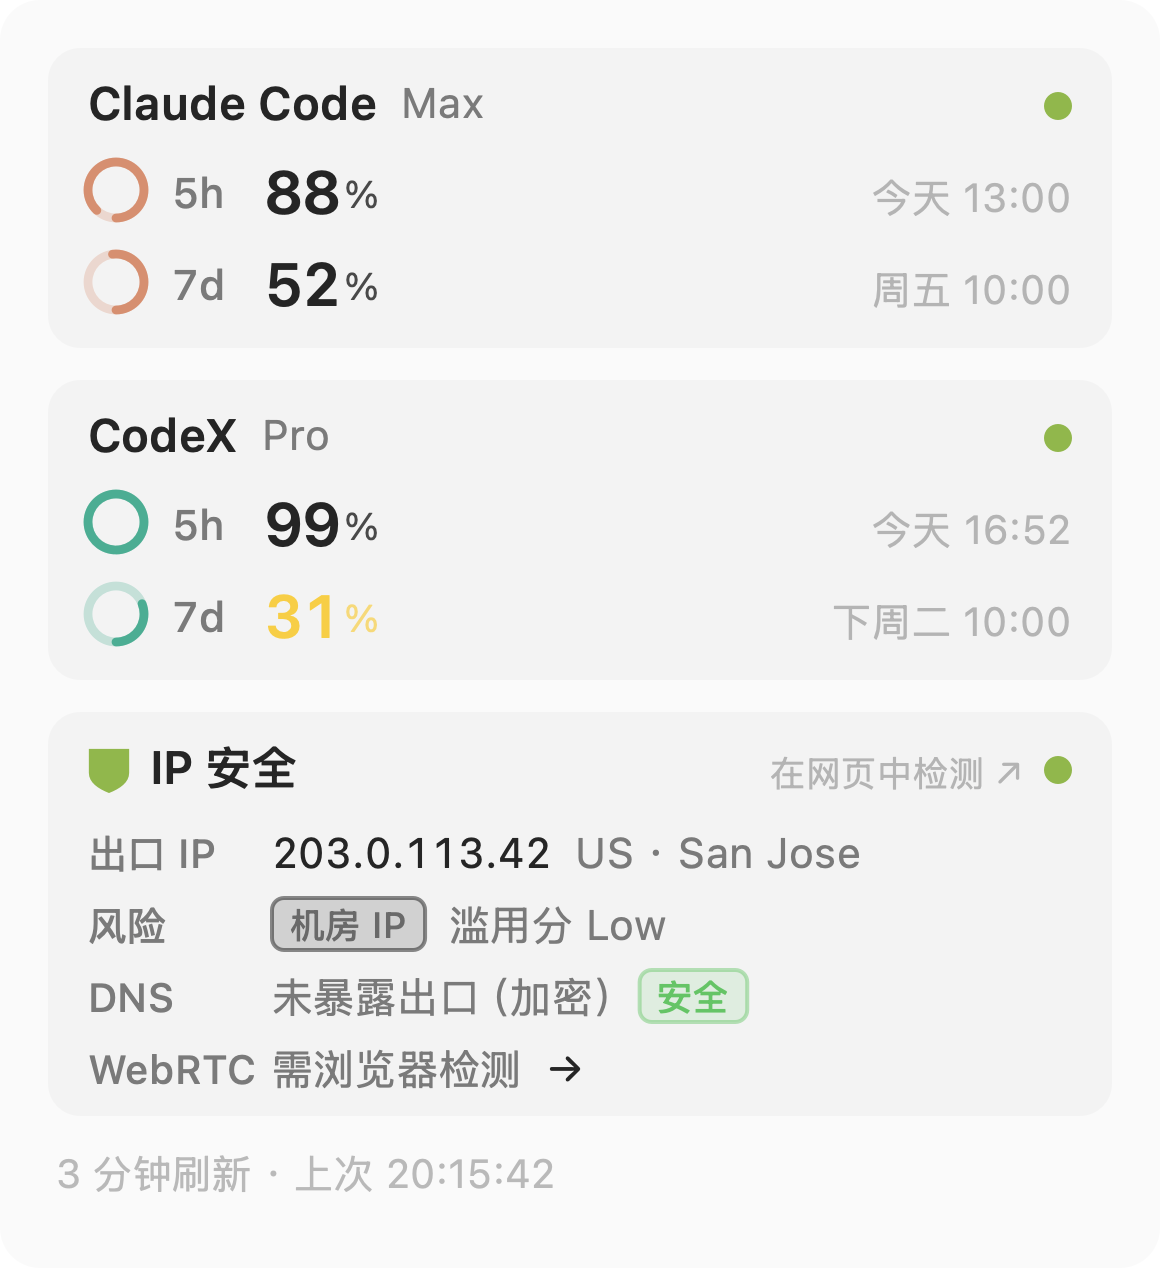
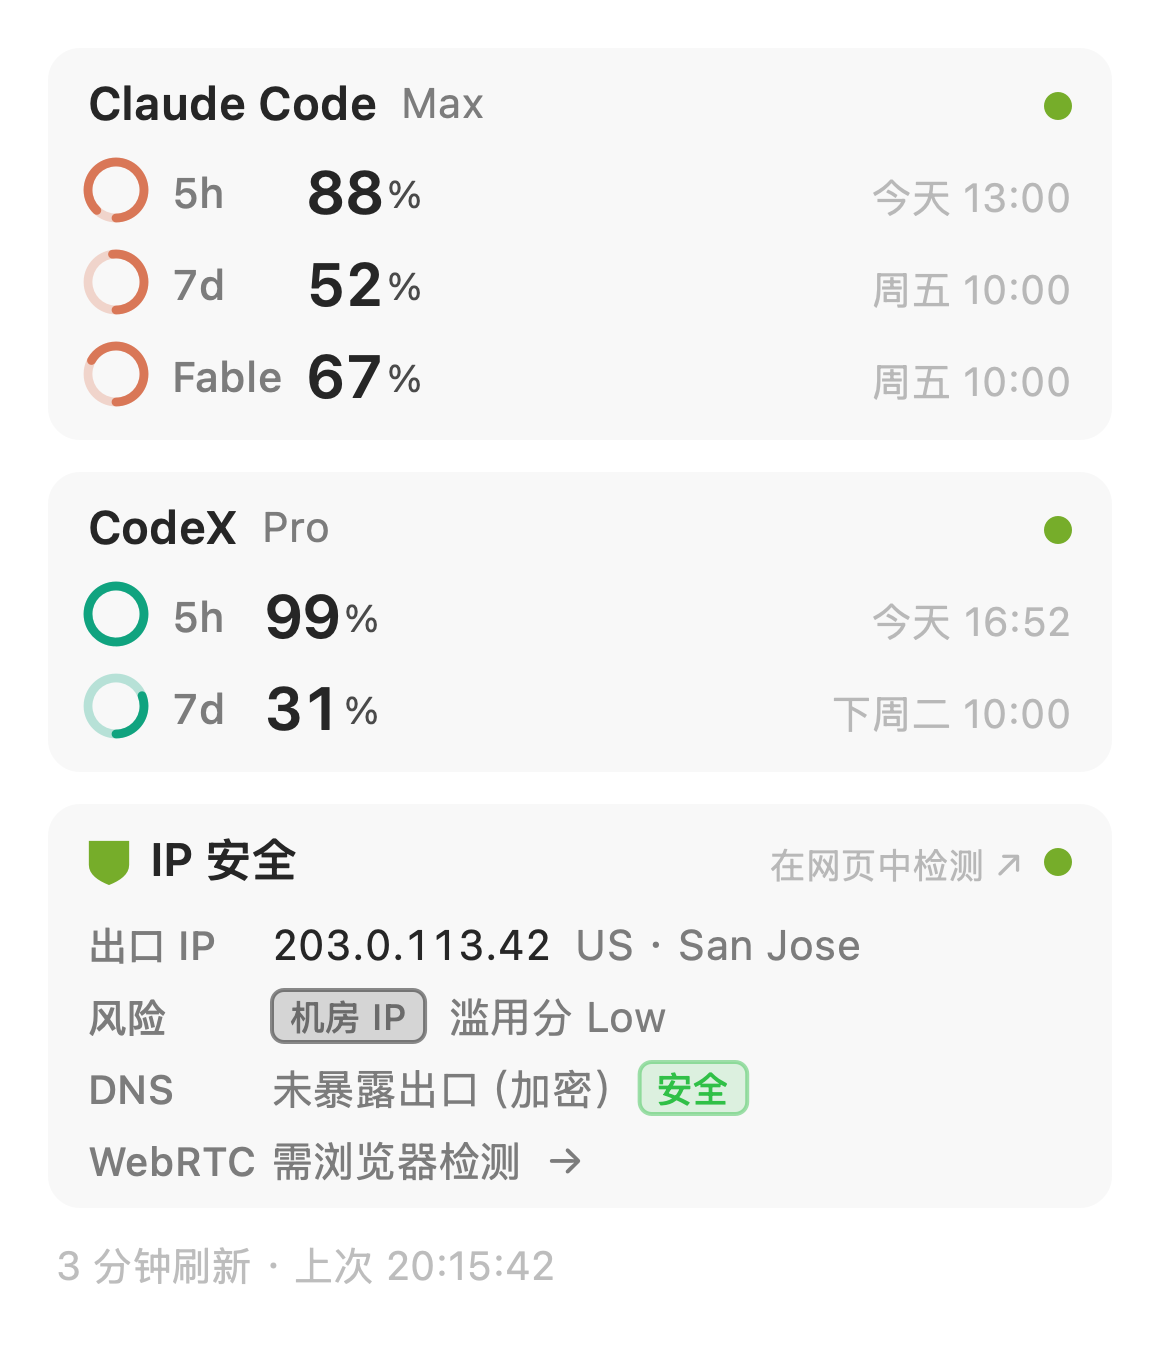
docs: README 补 Fable 周期额度行说明，重拍浅/深色面板截图
fork.9 发了功能但 README 没跟上——面板截图还是两行的旧图，正文也没提。
截图离屏重渲染（浅/深色各一张，4x），数值沿用旧图 + 新增 Fable 67% 行；
出口 IP 继续用 RFC 5737 示例地址 203.0.113.42，真实 IP 不进公开仓库。

diff --git a/README.md b/README.md
@@ -18,6 +18,8 @@
 
 左键点击弹出卡片式面板：环形进度 + 大号百分比 + 重置时间 + 服务健康状态点（数据来自官方 status page）。设置项都在面板下方的菜单里。
 
+Claude 卡片在 5h / 7d 之外还有第三行：**按模型限定的周期额度**（上图的 Fable 行）——这一档在 claude.ai 用量页看得到，但一般的菜单栏工具不显示。标签用服务端下发的模型名，旗舰换代时自动跟随，无需升级 App。目前 macOS 面板已支持，Windows flyout 下个版本跟进。
+
 <table><tr>
   <td><img src="docs/screenshot-panel-light.png" width="300" /></td>
   <td><img src="docs/screenshot-panel-dark.png" width="300" /></td>
